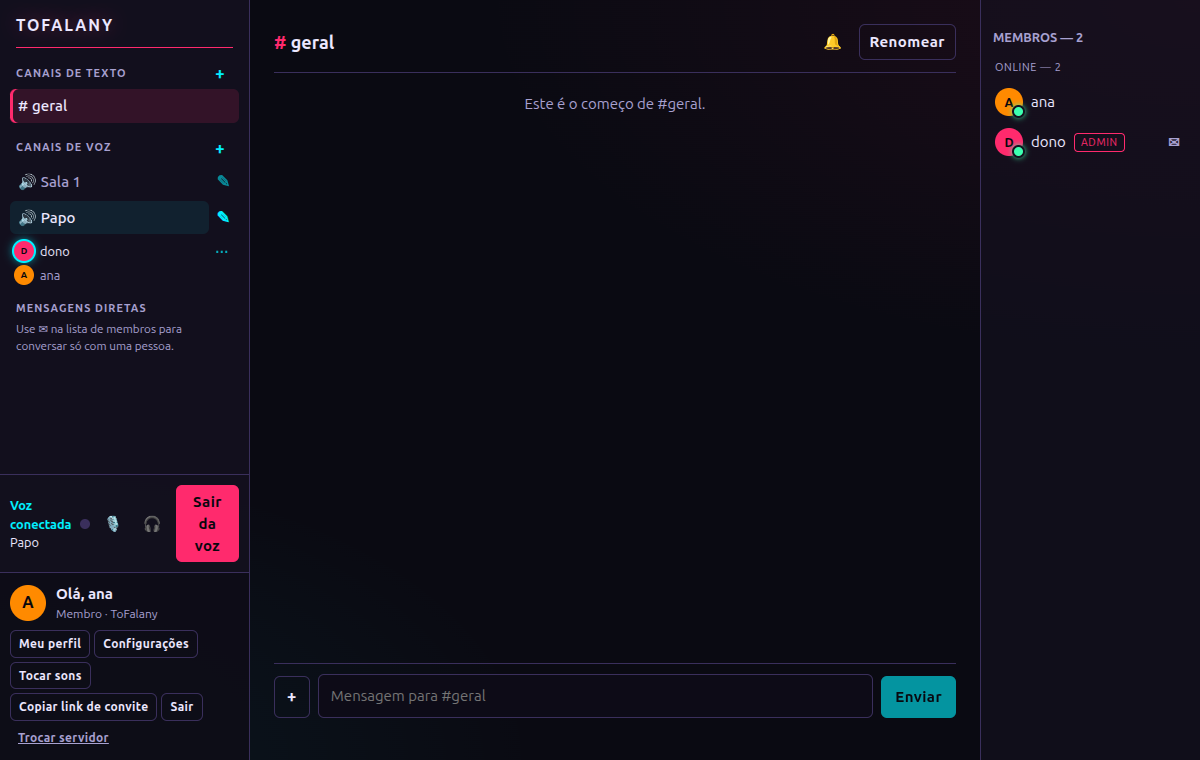
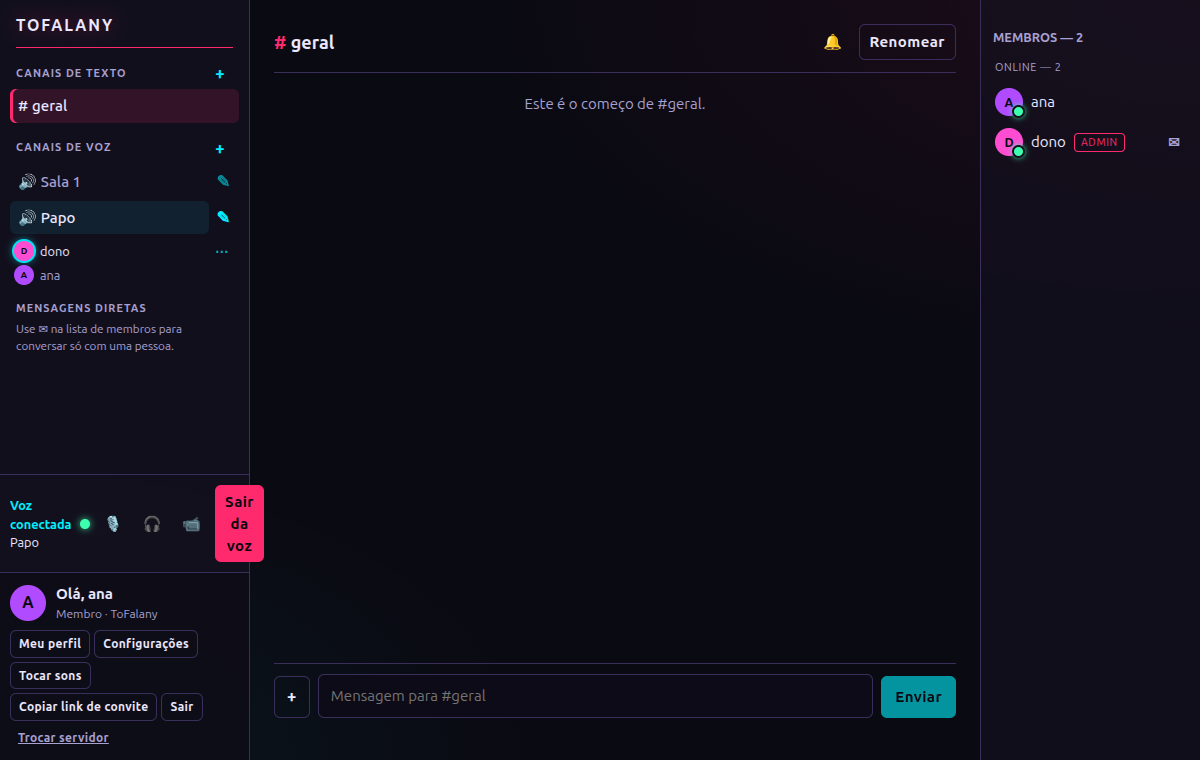
docs(T20): card, prints e marcação na fila

diff --git a/docs/demandas/to-falando-v1/cards/T20.html b/docs/demandas/to-falando-v1/cards/T20.html
@@ -1,0 +1,24 @@
+<!-- T20 — Webcam -->
+<h3>Origem</h3>
+<p>Demanda to-falando-v1: RF-25; CA-36.</p>
+<h3>Padrão</h3>
+<p>Técnica §5: webcam com simulcast pelo livekit-client.</p>
+
+<h3>Implementação (05/11/2026, commit 242e579)</h3>
+<ul>
+  <li><b>Sala</b>: <code>camera(ligar)</code> com <code>setCameraEnabled</code> (720p30, simulcast); se a voz cair durante a abertura, a faixa é parada. Vídeos dos outros só da fonte câmera (tela compartilhada fica de fora), entram e saem por assinatura, mudo/desmudo da publicação e saída da pessoa; quem chega com a câmera desligada não aparece.</li>
+  <li><b>Tela</b>: botão "Câmera" (aria-pressed) no painel de voz, sem clique duplo durante a abertura; grade de câmeras no topo da conversa com a minha prévia espelhada e o nome de cada um; 📹 "câmera ligada" na lista de quem está na voz (o servidor recebe o estado). Em qualquer saída da voz (sair, cair, ser tirado, canal removido, trocar de canal) a câmera volta a desligada.</li>
+</ul>
+
+<h3>Testes</h3>
+<p><code>voz.test.ts</code> (ligar/desligar, vídeos dos outros, mudo/desmudo, publicação muda, quem sai, sair limpa a prévia); E2E <code>e2e/voz.spec.ts</code> (CA-36). Suíte: 332 testes e 26 E2E passando; lint e build verdes.</p>
+
+<h3>Validação (local, 05/11/2026)</h3>
+<table border="1" cellpadding="4">
+  <tr><th>Chamada</th><th>Status</th><th>Resultado</th></tr>
+  <tr><td>E2E CA-36: dono liga a câmera (falsa)</td><td>ok</td><td>prévia no dono; na ana, "Vídeo de dono" com imagem (videoWidth &gt; 0) e 📹 na lista (print T20-ana-ve-camera-do-dono)</td></tr>
+  <tr><td>E2E CA-36: dono desliga</td><td>ok</td><td>o vídeo e o 📹 somem na ana</td></tr>
+</table>
+<p><b>A validar pelo usuário:</b> webcam real (luz apaga ao desligar e ao sair da voz).</p>
+<p><b>Observação:</b> durante as correções da revisão, um script meu esvaziou a <code>TelaPrincipal.tsx</code>; o arquivo foi restaurado do commit anterior e as mudanças reaplicadas, e a suíte inteira passou depois.</p>
+<p>Revisão: 7 achados (1 grave, 2 médios, 4 menores), todos corrigidos.</p>
